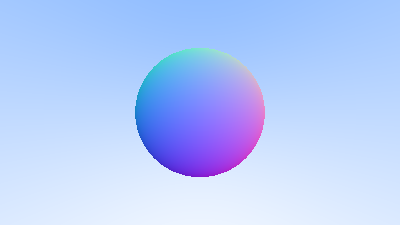
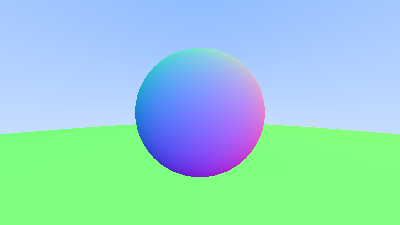
Added world construction and reorganized code

diff --git a/vector/ray.go b/vector/ray.go
@@ -2,7 +2,6 @@ package vector
 
 import (
 	"fmt"
-	"math"
 )
 
 // Point3 represents a point in 3d space
@@ -21,72 +20,4 @@ func (r Ray) At(t float64) Vec3 {
 
 func (r Ray) String() string {
 	return fmt.Sprintf("[Ray Origin:%v, Direction:%v]", r.Origin, r.Direction)
-}
-
-// WithNormal stores information useful for hit testing.
-type WithNormal struct {
-	Normal    Vec3
-	FrontFace bool
-}
-
-// SetFaceNormal determines if the ray hit an outward facing face of an object, and sets the normal vector accordingly
-func (w WithNormal) SetFaceNormal(r Ray, outwardNormal Vec3) {
-	if r.Direction.Dot(outwardNormal) < 0 {
-		w.FrontFace = true
-		w.Normal = outwardNormal
-	} else {
-		w.FrontFace = false
-		w.Normal = outwardNormal.Mul(-1.0)
-	}
-}
-
-// HitRecord stores the hit point coordinates, ray coordinate where the hit occured and corresponding WithNormal struct of the hit object
-type HitRecord struct {
-	WithNormal
-	P Point3
-	T float64
-}
-
-// Hittable represents a hit test on any object that can intersect with a ray. Returns true & hit information when ray intersects with the tested object.
-type Hittable interface {
-	Hit(r Ray, tMin float64, tMax float64) (hit bool, hr *HitRecord)
-}
-
-// Sphere is represented as an origin and radius
-type Sphere struct {
-	Center Point3
-	Radius float64
-}
-
-// Hit test for Sphere object. Solves the intersection equation of ray and sphere
-func (s Sphere) Hit(r Ray, tMin float64, tMax float64) (hit bool, hr *HitRecord) {
-	var oc = r.Origin.SubV(s.Center)
-	var a = r.Direction.LengthSquared()
-	var halfB = oc.Dot(r.Direction)
-	var c = oc.LengthSquared() - s.Radius*s.Radius
-	var discriminant = halfB*halfB - a*c
-
-	if discriminant > 0.0 {
-		var root = math.Sqrt(discriminant)
-
-		var temp = (-halfB - root) / a
-		if temp < tMax && temp > tMin {
-			var p = r.At(temp)
-			var oN = p.SubV(s.Center).Div(s.Radius)
-			var hr = HitRecord{P: p, T: temp}
-			(hr.WithNormal).SetFaceNormal(r, oN)
-			return true, &hr
-		}
-
-		temp = (-halfB + root) / a
-		if temp < tMax && temp > tMin {
-			var p = r.At(temp)
-			var oN = p.SubV(s.Center).Div(s.Radius)
-			var hr = HitRecord{P: p, T: temp}
-			(hr.WithNormal).SetFaceNormal(r, oN)
-			return true, &hr
-		}
-	}
-
-	return false, nil
 }

diff --git a/vector/hit.go b/vector/hit.go
@@ -1,0 +1,56 @@
+package vector
+
+// WithNormal stores information useful for hit testing.
+type WithNormal struct {
+	Normal    Vec3
+	FrontFace bool
+}
+
+// SetFaceNormal determines if the ray hit an outward facing face of an object, and sets the normal vector accordingly
+func (w *WithNormal) SetFaceNormal(r Ray, outwardNormal Vec3) {
+	if r.Direction.Dot(outwardNormal) < 0 {
+		(*w).FrontFace = true
+		(*w).Normal = outwardNormal
+	} else {
+		(*w).FrontFace = false
+		(*w).Normal = outwardNormal.Mul(-1.0)
+	}
+}
+
+// HitRecord stores the hit point coordinates, ray coordinate where the hit occured and corresponding WithNormal struct of the hit object
+type HitRecord struct {
+	WithNormal
+	P Point3
+	T float64
+}
+
+// Hittable represents a hit test on any object that can intersect with a ray. Returns true & hit information when ray intersects with the tested object.
+type Hittable interface {
+	Hit(r Ray, tMin float64, tMax float64) (hit bool, hr *HitRecord)
+}
+
+// HittableList represents a list of hittable objects
+type HittableList struct {
+	Hittables []Hittable
+}
+
+// Hit on HittableList returns the first hit result in terms of distance along the ray
+func (hl HittableList) Hit(r Ray, tMin float64, tMax float64) (hit bool, hr *HitRecord) {
+	var closestSoFar = tMax
+	var closestHr *HitRecord = nil
+
+	for _, h := range hl.Hittables {
+		currentHit, currentHr := h.Hit(r, tMin, closestSoFar)
+		if currentHit {
+			closestSoFar = (*currentHr).T
+			closestHr = currentHr
+		}
+	}
+
+	return closestHr != nil, closestHr
+}
+
+// Add on HittableList appends a hittable object to the internal list tested with Hit
+func (hl *HittableList) Add(h Hittable) {
+	hl.Hittables = append(hl.Hittables, h)
+}

diff --git a/raytrace.go b/raytrace.go
@@ -19,16 +19,16 @@ func colorf64(r, g, b, a float64) color.NRGBA {
 	}
 }
 
-func rayColor(r vec.Ray) color.NRGBA {
-	var center = vec.Vec3{X: 0.0, Y: 0.0, Z: -1.0}
-	var t = hitSphere(center, 0.5, r)
-	if t > 0.0 {
-		var N = r.At(t).SubV(center).Normalize().AddV(vec.Vec3{X: 1.0, Y: 1.0, Z: 1.0}).Div(2.0)
-		// fmt.Printf("r: %v, N: %v\n", r, N)
+func rayColor(r vec.Ray, world *vec.HittableList) color.NRGBA {
+	hit, hr := (*world).Hit(r, 0, math.Inf(0))
+	if hit {
+		// fmt.Printf("Hit an object: %v\n", *hr)
+		var N = (*hr).WithNormal.Normal.AddV(vec.Vec3{X: 1.0, Y: 1.0, Z: 1.0}).Div(2.0)
 		return colorf64(N.X, N.Y, N.Z, 1.0)
 	}
+
 	unitDirection := r.Direction.Normalize()
-	t = 0.5 * (unitDirection.Y + 1.0)
+	t := 0.5 * (unitDirection.Y + 1.0)
 	c1 := vec.Vec3{X: 1.0, Y: 1.0, Z: 1.0}
 	c2 := vec.Vec3{X: 0.5, Y: 0.7, Z: 1.0}
 	c3 := c1.Mul(1.0 - t).AddV(c2.Mul(t))
@@ -48,10 +48,17 @@ func hitSphere(center vec.Point3, radius float64, r vec.Ray) float64 {
 }
 
 func main() {
+	// Image
 	var aspectRatio = 16.0 / 9.0
 	var imageWidth = 400
 	var imageHeight = int(float64(imageWidth) / aspectRatio)
 
+	// World
+	var world = vec.HittableList{}
+	(&world).Add(vec.Sphere{Center: vec.Point3{X: 0, Y: 0, Z: -1}, Radius: 0.5})
+	(&world).Add(vec.Sphere{Center: vec.Point3{X: 0, Y: -100.5, Z: -1}, Radius: 100})
+
+	// Camera
 	var viewportHeight = 2.0
 	var viewportWidth = aspectRatio * viewportHeight
 	var focalLength = 1.0
@@ -69,7 +76,7 @@ func main() {
 			v := 1.0 - float64(j)/float64(imageHeight-1)
 			dir := llc.AddV(hor.Mul(u)).AddV(vrt.Mul(v)).SubV(origin)
 			ray := vec.Ray{Origin: origin, Direction: dir}
-			c := rayColor(ray)
+			c := rayColor(ray, &world)
 			img.Set(i, j, c)
 		}
 	}

diff --git a/vector/primitive.go b/vector/primitive.go
@@ -1,0 +1,42 @@
+package vector
+
+import "math"
+
+// Sphere is represented as an origin and radius
+type Sphere struct {
+	Center Point3
+	Radius float64
+}
+
+// Hit test for Sphere object. Solves the intersection equation of ray and sphere
+func (s Sphere) Hit(r Ray, tMin float64, tMax float64) (hit bool, hr *HitRecord) {
+	var oc = r.Origin.SubV(s.Center)
+	var a = r.Direction.LengthSquared()
+	var halfB = oc.Dot(r.Direction)
+	var c = oc.LengthSquared() - s.Radius*s.Radius
+	var discriminant = halfB*halfB - a*c
+
+	if discriminant > 0.0 {
+		var root = math.Sqrt(discriminant)
+
+		var temp = (-halfB - root) / a
+		if temp < tMax && temp > tMin {
+			var p = r.At(temp)
+			var oN = p.SubV(s.Center).Div(s.Radius)
+			var hr = HitRecord{P: p, T: temp}
+			(&hr).WithNormal.SetFaceNormal(r, oN)
+			return true, &hr
+		}
+
+		temp = (-halfB + root) / a
+		if temp < tMax && temp > tMin {
+			var p = r.At(temp)
+			var oN = p.SubV(s.Center).Div(s.Radius)
+			var hr = HitRecord{P: p, T: temp}
+			(&hr).WithNormal.SetFaceNormal(r, oN)
+			return true, &hr
+		}
+	}
+
+	return false, nil
+}

diff --git a/vector/vector.go b/vector/vector.go
@@ -81,3 +81,8 @@ func (v Vec3) LengthSquared() float64 {
 func (v Vec3) String() string {
 	return fmt.Sprintf("[%f, %f, %f]", v.X, v.Y, v.Z)
 }
+
+// DegToRad converts degrees to radians
+func DegToRad(deg float64) float64 {
+	return deg * math.Pi / 180.0
+}
